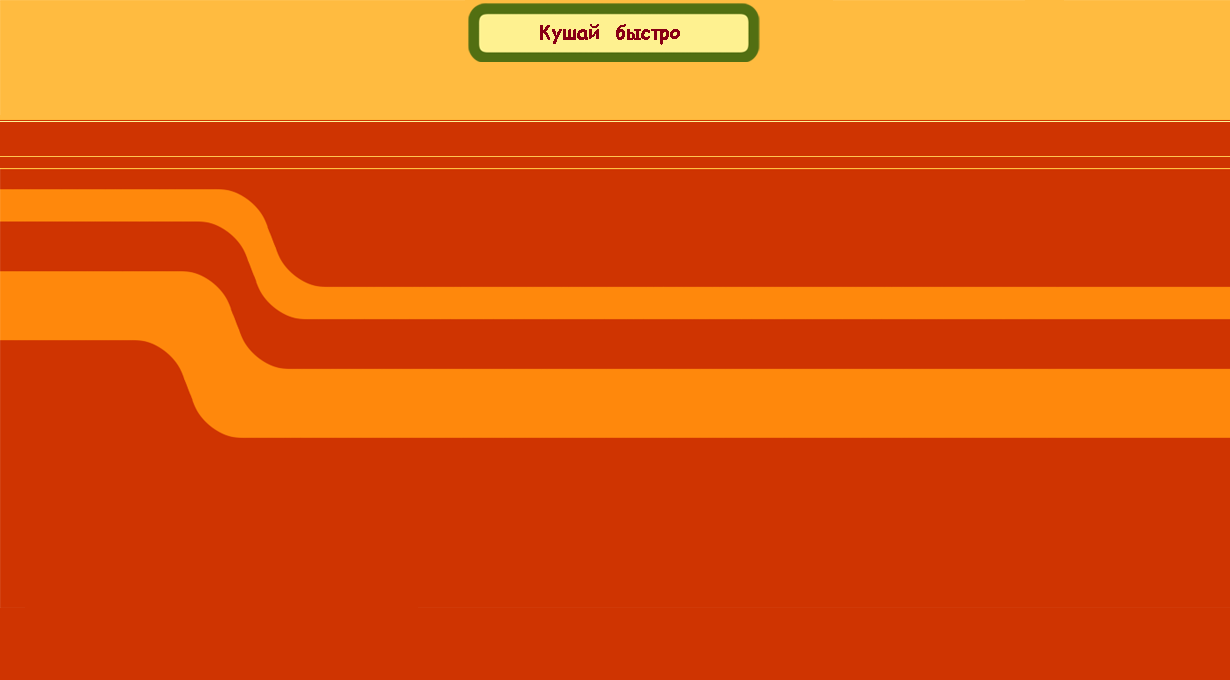
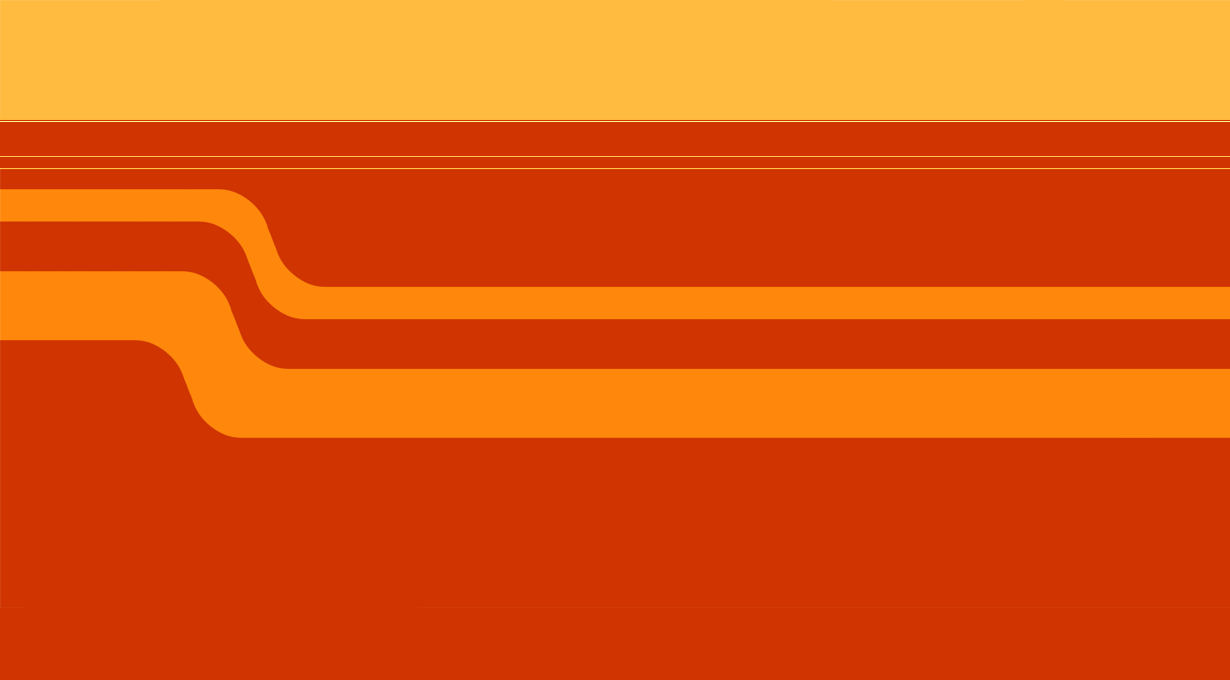
Изменения в дизайне. Зависимость gif от времени.
Изменения в дизайне. Зависимость gif от времени. Вывод номера уровня и
очков для победы.

Changed region(s): [[0.3707, 0.0, 0.6179, 0.0926]]

diff --git a/js_script.js b/js_script.js
@@ -67,7 +67,7 @@ window.onload = function() {
         canvas.addEventListener("mouseup", onMouseUp);
         lvl = 0;
         lvl_type = 4;
-        win_score = 1500;
+        win_score = 1000;
         totalScore = 0;
         startTime = 30;
         presentTime = 0;
@@ -264,12 +264,17 @@ window.onload = function() {
         totalScore += score + bonusTime * 50;
         bonusTime = 0;
         score = 0;
+        win_score += 50;
         gamestate = 'waiting';
         isaibot = false;
         ai_button.className = 'ai_button';
         showmoves = false;
-        time = setInterval(animationLineTimer, 1000);
+        time = setInterval(animationTimer, 1000);
         lineTimer.style.width = startTimerWidth + "px";
+        var goalTitle = document.getElementById("goalTitle");
+        goalTitle.innerHTML = "Наберите " + win_score + " очков";
+        var levelTitle = document.getElementById("levelTitle");
+        levelTitle.innerHTML = "Уровень №" + lvl;
         gameover = false;
         gamewin = false;
         presentTime = startTime;
@@ -513,12 +518,16 @@ window.onload = function() {
         else ai_button.className = 'ai_button';
     }
     
-    function animationLineTimer() {
+    function animationTimer() {
+        animationCook();
+        if (presentTime == 0) {
+            clearInterval(time)
+        }
         presentTime--;
         if (gamewin) {
             clearInterval(time);
             bonusTime = presentTime;
-            console.log("bonus:" + bonusTime);
+            lineTimer.style.width = "0px";
             return;
         }
         if (presentTime == 0) {
@@ -529,21 +538,18 @@ window.onload = function() {
             var reductionWidth = (startTimerWidth / startTime);
             lineTimer.style.width = reductionWidth * presentTime + "px";
         }
-        console.log("time:" + presentTime);
     }
 
-    var cookAnimation = document.getElementById("cookAnimation");
-    setInterval(randomizeAnimationCook, 5000);
-
-    function randomizeAnimationCook() {
-        var randomInt = Math.round(1 + Math.random() * 9);
-        if (randomInt == 1)
-            cookAnimation.src = "images/3.gif";
-        else if (randomInt <= 5)
-            cookAnimation.src = "images/2.gif";
-        else
+    function animationCook() {
+        var cookAnimation = document.getElementById("cookAnimation");
+        if (presentTime == startTime)
             cookAnimation.src = "images/1.gif";
+        else if (presentTime == Math.floor(startTime / 2) + 4 || presentTime == 4)
+            cookAnimation.src == "images/3.gif";
+        else if (presentTime == 0 || gamewin)
+            cookAnimation.src == "images/3.gif";;
+        else
+            cookAnimation.src = "images/2.gif";
     }
-
     init();
 };

diff --git a/style.css b/style.css
@@ -71,7 +71,7 @@ body {
     background-color: darkred;
     border-width: 10px;
     border-radius: 30px;
-    width: 1060px;
+    width: 1100px;
     height: 42px;
     left: 85px;
     top: 75px;
@@ -81,9 +81,9 @@ body {
     position: absolute;
     background-color: #fef190;
     border-radius: 30px;
-    width: 1040px;
+    width: 1060px;
     height: 22px;
-    left: 95px;
+    left: 100px;
     top: 85px;
     transition: 1000ms;
 }
@@ -92,4 +92,50 @@ body {
     position: absolute;
     left: 80px;
     top: 50px;
+}
+
+#goalTitle {
+    position: absolute;
+    width: 500px;
+    height: 50px;
+    left: 615px;
+    top: 133px;
+    text-align: center;
+    font-family: "Comic Sans MS";
+    font-size: 25px;
+    color: #fef190;
+}
+
+#nameTitle {
+    position: absolute;
+    top: 8px;
+    left: 195px;
+    width: 300px;
+    height: 40px;
+    background-color: #fef290;
+    font-family: "Comic Sans MS";
+    font-size: 30px;
+    color: darkred;
+    border: solid;
+    border-width: 10px;
+    border-radius: 30px;
+    border-color: #506d13;
+    text-align: center;
+}
+
+#levelTitle {
+    position: absolute;
+    top: 8px;
+    left: 780px;
+    width: 300px;
+    height: 40px;
+    background-color: #fef290;
+    font-family: "Comic Sans MS";
+    font-size: 30px;
+    color: darkred;
+    border: solid;
+    border-width: 10px;
+    border-radius: 30px;
+    border-color: #506d13;
+    text-align: center;
 }

diff --git a/index.html b/index.html
@@ -15,6 +15,9 @@
 <canvas id="GameField" width="500" height="500"></canvas>
 <div id="borderTimer"></div>
 <div id="LineTimer"></div>
-<img src="images/1.gif" id="cookAnimation">
+<div id="goalTitle"> Наберите 1500 очков</div>
+<div id="nameTitle"> Кушай быстрее</div>
+<div id="levelTitle"> Уровень №</div>
+<img src="images/1.gif" id="cookAnimation">;
 </body>
 </html>
